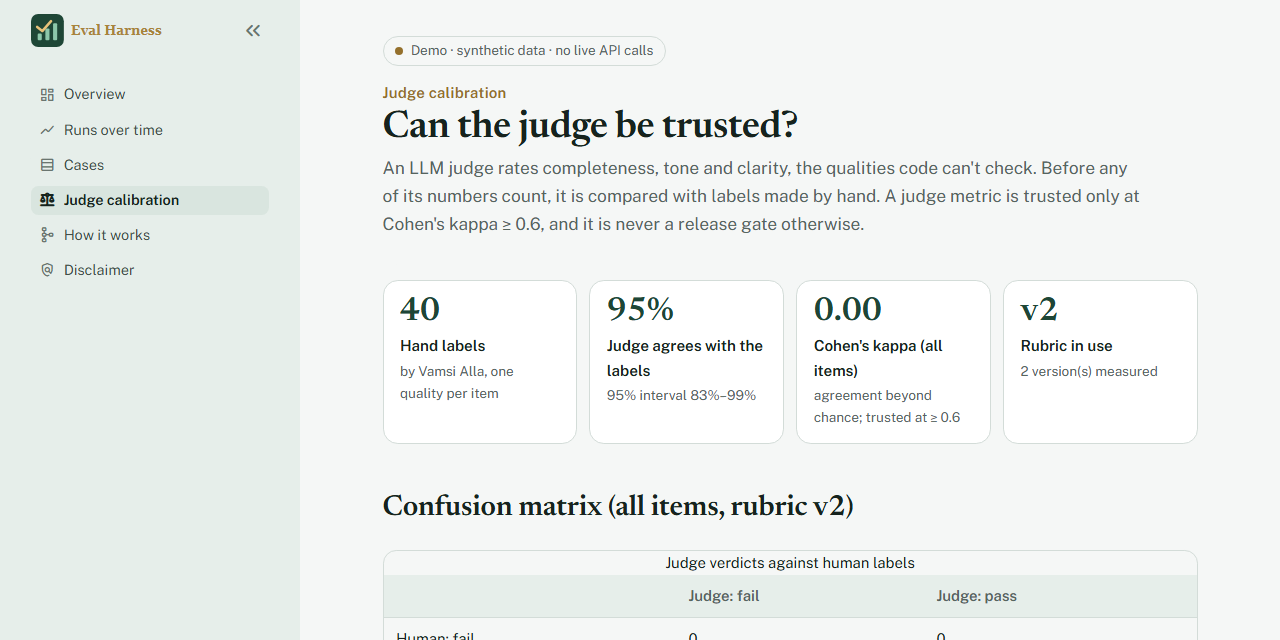
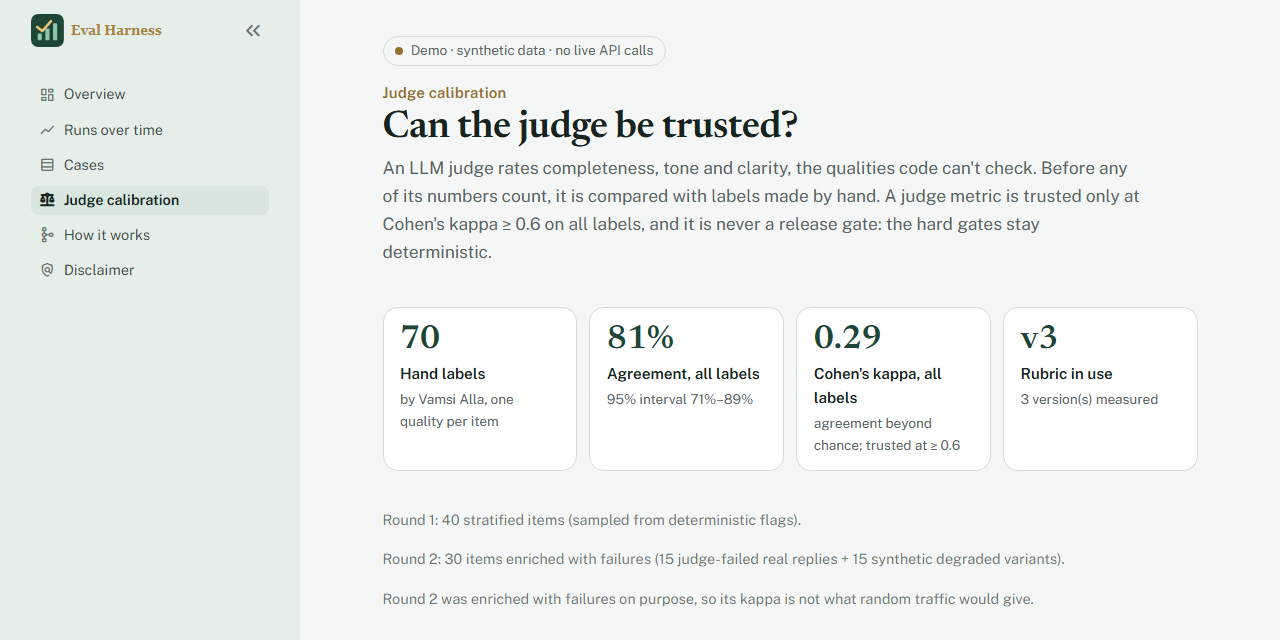
docs: re-recorded demo (judge segment: 70 labels, kappa 0.29), README alt text, images

diff --git a/README.md b/README.md
@@ -71,7 +71,7 @@ had its own scripts, its own report format and no gate in CI.
 
 | Overview | A failing case | Judge calibration |
 |---|---|---|
-| <img src="docs/images/overview.png" alt="Dashboard overview: both projects' gated metrics with intervals and pass badges" width="300"> | <img src="docs/images/case.png" alt="Case drill-down: q13 in the regression demo, expected passage, recorded answers and failed verdicts" width="300"> | <img src="docs/images/calibration.png" alt="Judge calibration: confusion matrix, kappa 0.00 and no trusted metrics" width="300"> |
+| <img src="docs/images/overview.png" alt="Dashboard overview: both projects' gated metrics with intervals and pass badges" width="300"> | <img src="docs/images/case.png" alt="Case drill-down: q13 in the regression demo, expected passage, recorded answers and failed verdicts" width="300"> | <img src="docs/images/calibration.png" alt="Judge calibration: 70 hand labels in two rounds, kappa 0.29 with rubric v3, every judge metric not trusted" width="300"> |
 
 ## Business value
 
